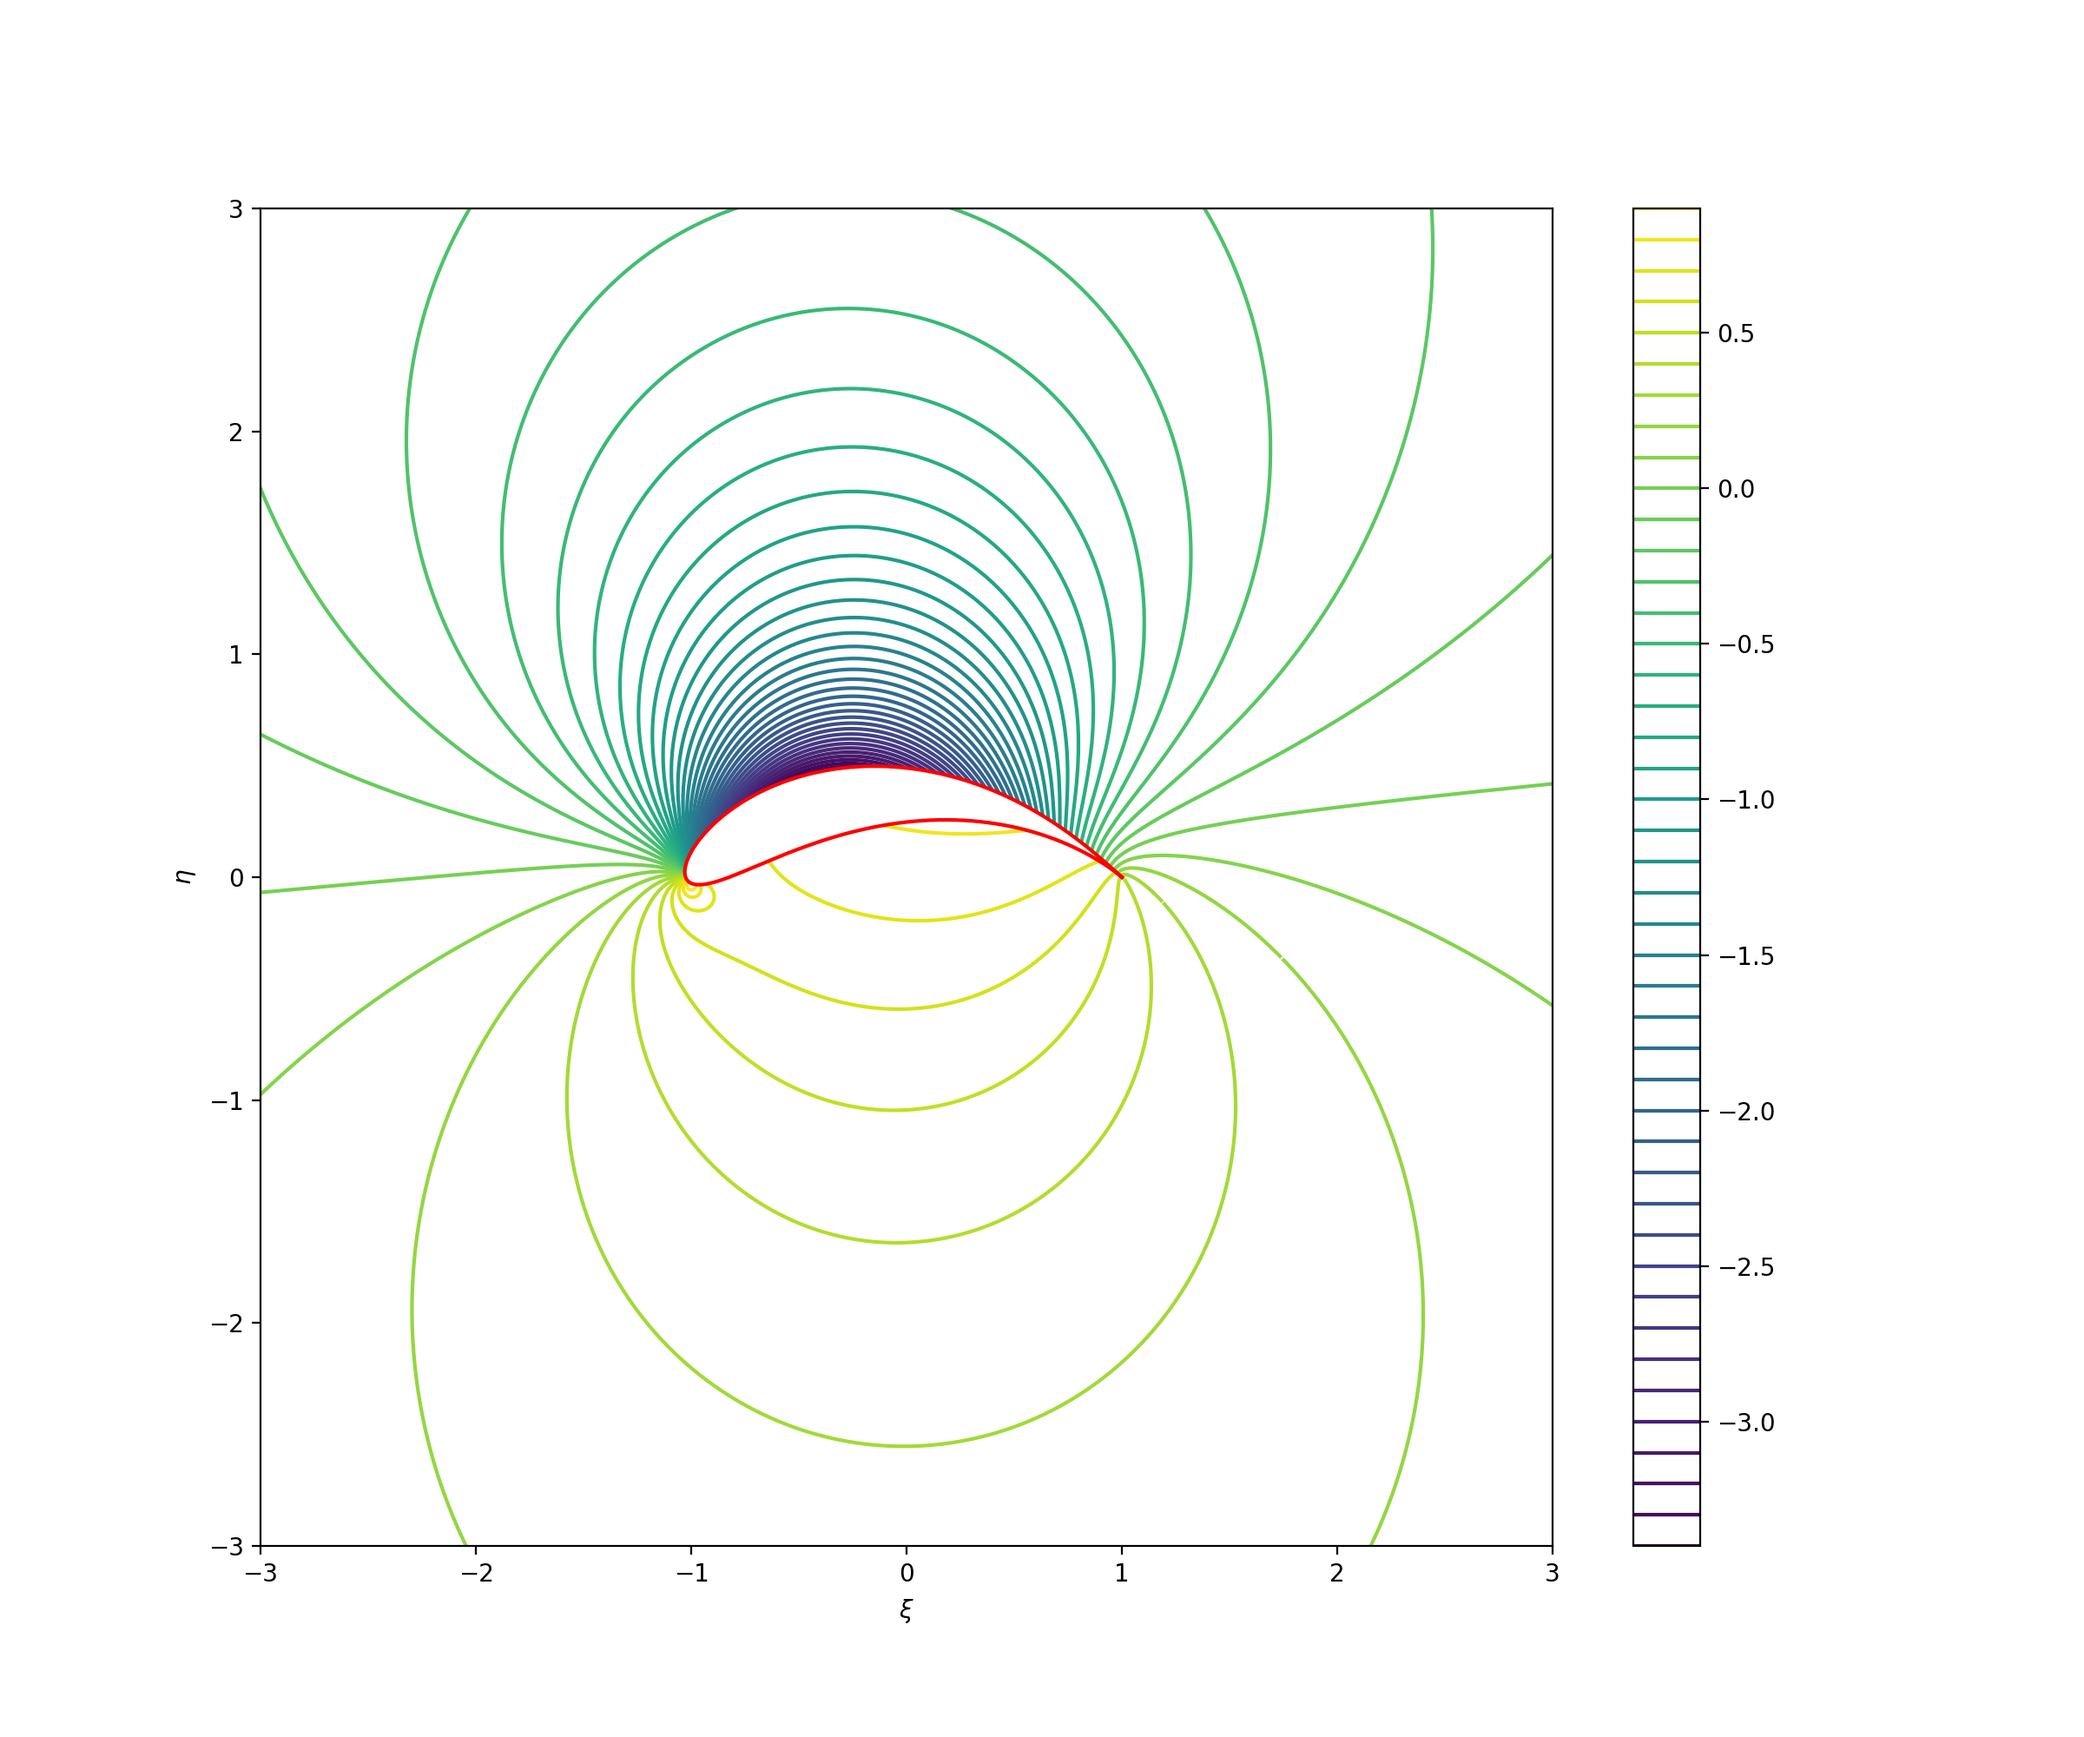
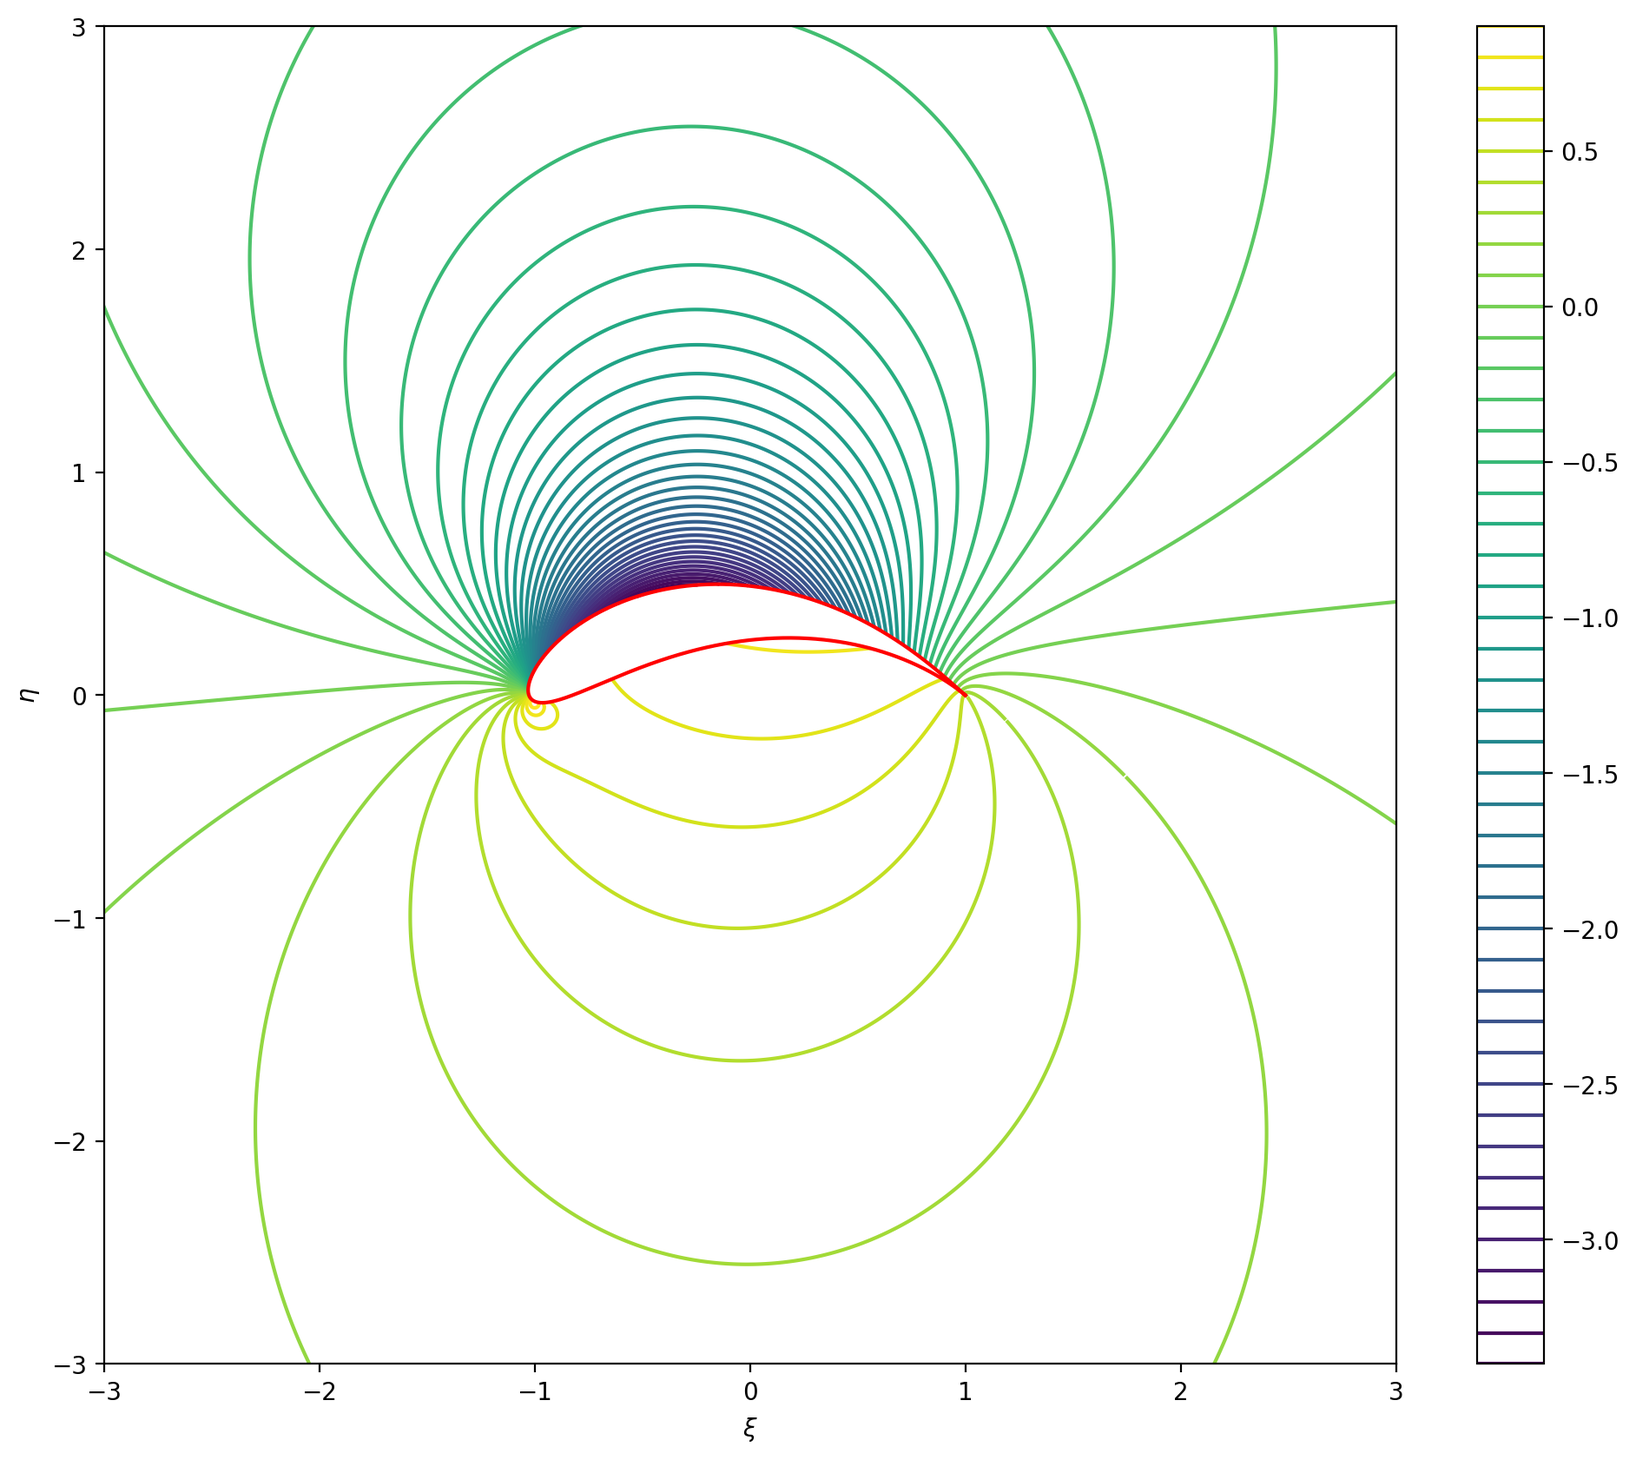
margin => tight

diff --git a/Joukowski.py b/Joukowski.py
@@ -70,7 +70,7 @@ plt.plot(xi[:, 0], ita[:, 0], "r")
 plt.xlabel(r"$\xi$")
 plt.ylabel(r"$\eta$")
 plt.colorbar()
-plt.savefig("output/streamline.png")
+plt.savefig("output/streamline.png",  bbox_inches='tight')
 plt.close()
 
 # Cp
@@ -82,7 +82,7 @@ plt.plot(xi[:, 0], ita[:, 0], "r")
 plt.xlabel(r"$\xi$")
 plt.ylabel(r"$\eta$")
 plt.colorbar()
-plt.savefig("output/Cp.png")
+plt.savefig("output/Cp.png",  bbox_inches='tight')
 
 # wall pressure
 fig = plt.figure(figsize=(10, 12), dpi=200)
@@ -104,4 +104,4 @@ ax1.grid(which='major', axis='x', linewidth=0.75, linestyle='-', color='0.75')
 ax1.grid(which='minor', axis='x', linewidth=0.25, linestyle='-', color='0.75')
 ax1.grid(which='major', axis='y', linewidth=0.75, linestyle='-', color='0.75')
 ax1.grid(which='minor', axis='y', linewidth=0.25, linestyle='-', color='0.75')
-plt.savefig("output/wallpressure.png")
+plt.savefig("output/wallpressure.png",  bbox_inches='tight')
